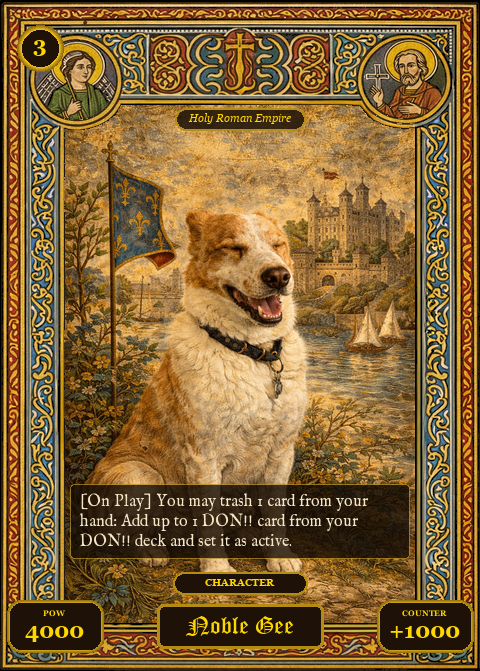
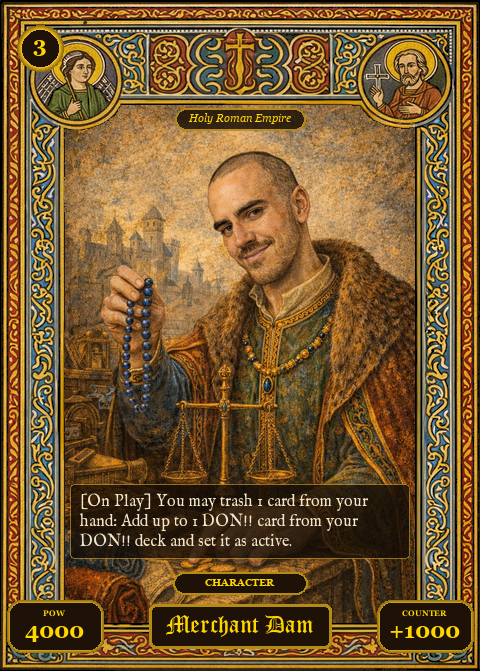
Swap OP01-100/ST04-008: rename + new artwork

diff --git a/deck-editor.html b/deck-editor.html
@@ -496,7 +496,7 @@
       { id:'OP01-090', name:'Schola Montis Belli', type:'STAGE', color:'Blue', attribute:"", affiliation:'Duchess of Brittany', power:0, cost:1, counter:0, imgExt:'png', ability:'[Activate: Main] Look at 5 cards from the top of your deck; reveal up to 1 {Duchess of Brittany} type card other than [Schola Montis Belli] and add it to your hand. Then, place the rest at the bottom of your deck in any order.' },
       { id:'OP01-094', name:'Jack, Master of Gee', type:'CHARACTER', color:'Purple', attribute:'Strike', affiliation:'Holy Roman Empire', power:12000, cost:10, counter:0, imgExt:'png', ability:'[On Play] DON!! -6: If your Leader has the {Holy Roman Empire} type, K.O. all Characters other than this Character.' },
       { id:'OP01-096', name:'Commander Sam', type:'CHARACTER', color:'Purple', attribute:'Strike', affiliation:'Holy Roman Empire', power:7000, cost:7, counter:0, imgExt:'png', ability:"[On Play] DON!! -2: K.O. up to 1 of your opponent's Characters with a cost of 3 or less and up to 1 of your opponent's Characters with a cost of 2 or less." },
-      { id:'OP01-100', name:'Merchant Dam', type:'CHARACTER', color:'Purple', attribute:'Wisdom', affiliation:'Holy Roman Empire', power:3000, cost:2, counter:1000, imgExt:'png', ability:'[Blocker] [On K.O.] Add 1 DON!! card from your DON!! deck and rest it.' },
+      { id:'OP01-100', name:'Noble Gee', type:'CHARACTER', color:'Purple', attribute:'Wisdom', affiliation:'Holy Roman Empire', power:3000, cost:2, counter:1000, imgExt:'png', ability:'[Blocker] [On K.O.] Add 1 DON!! card from your DON!! deck and rest it.' },
       { id:'OP01-101', name:'Shawn the Whimsical', type:'CHARACTER', color:'Purple', attribute:'Strike', affiliation:'Holy Roman Empire', power:4000, cost:3, counter:2000, imgExt:'png', ability:'[DON!! x1] [When Attacking] You may trash 1 card from your hand: Add up to 1 DON!! card from your DON!! deck and rest it.' },
       { id:'OP01-117', name:'Guard Off Duty', type:'EVENT', color:'Purple', attribute:"", affiliation:'Holy Roman Empire', power:0, cost:2, counter:0, imgExt:'png', hasAlt:true, ability:"[Main] DON!! -1: Rest up to 1 of your opponent's Characters with a cost of 6 or less." },
       { id:'OP01-119', name:'Plight of the Crusader', type:'EVENT', color:'Purple', attribute:"", affiliation:'Holy Roman Empire', power:0, cost:2, counter:0, imgExt:'png', ability:'[Counter] Up to 1 of your Leader or Character cards gains +4000 power during this battle. Then, if you have 2 or less Life cards, add up to 1 DON!! card from your DON!! deck and rest it. [Trigger] Add up to 1 DON!! card from your DON!! deck and set it as active.' },
@@ -619,7 +619,7 @@
       { id:'ST04-005', name:'Sam the Tall', type:'CHARACTER', color:'Purple', attribute:'Wisdom', affiliation:'Holy Roman Empire', power:6000, cost:5, counter:1000, imgExt:'png', ability:'[Blocker] [On Play] DON!! -1: Draw 2 cards and trash 1 card from your hand.' },
       { id:'ST04-006', name:'Sasaki', type:'CHARACTER', color:'Purple', attribute:'Strike', power:4000, cost:4, counter:2000, imgExt:'png', ability:"" },
       { id:'ST04-007', name:'Sheepshead', type:'CHARACTER', color:'Purple', attribute:'Strike', power:4000, cost:3, counter:1000, imgExt:'png', ability:"" },
-      { id:'ST04-008', name:'Noble Gee', type:'CHARACTER', color:'Purple', attribute:'Strike', affiliation:'Holy Roman Empire', power:4000, cost:3, counter:1000, imgExt:'png', ability:'[On Play] You may trash 1 card from your hand: Add up to 1 DON!! card from your DON!! deck and set it as active.' },
+      { id:'ST04-008', name:'Merchant Dam', type:'CHARACTER', color:'Purple', attribute:'Strike', affiliation:'Holy Roman Empire', power:4000, cost:3, counter:1000, imgExt:'png', ability:'[On Play] You may trash 1 card from your hand: Add up to 1 DON!! card from your DON!! deck and set it as active.' },
       { id:'ST04-009', name:'Ginrummy', type:'CHARACTER', color:'Purple', attribute:'Wisdom', power:2000, cost:1, counter:1000, imgExt:'png', ability:"" },
       { id:'ST04-010', name:'Monk Matt', type:'CHARACTER', color:'Purple', attribute:'Strike', affiliation:'Holy Roman Empire', power:3000, cost:3, counter:0, imgExt:'png', ability:"[On Play] DON!! -1: K.O. up to 1 of your opponent's Characters with a cost of 3 or less. [Trigger] Play this card." },
       { id:'ST04-011', name:'Black Maria', type:'CHARACTER', color:'Purple', attribute:'Wisdom', power:1000, cost:1, counter:2000, imgExt:'png', ability:'[Blocker]' },

diff --git a/server.js b/server.js
@@ -402,7 +402,7 @@ const CARD_DB = [
     power:5000, life:5, cost:0, counter:0, image:IMG('ST04','ST04-001','png'), useNewPipeline:true,
     ability:"[Activate: Main] [Once Per Turn] DON!! -7: Trash up to 1 of your opponent's Life cards." },
 
-  { id:'OP01-100', name:'Merchant Dam', type:'CHARACTER', color:'Purple', attribute:'Wisdom', affiliation:'Holy Roman Empire',
+  { id:'OP01-100', name:'Noble Gee', type:'CHARACTER', color:'Purple', attribute:'Wisdom', affiliation:'Holy Roman Empire',
     power:3000, cost:2, counter:1000, image:IMG('OP01','OP01-100','png'), useNewPipeline:true,
     ability:"[Blocker] [On K.O.] Add 1 DON!! card from your DON!! deck and rest it." },
 
@@ -414,7 +414,7 @@ const CARD_DB = [
     power:4000, cost:3, counter:2000, image:IMG('OP01','OP01-101','png'), useNewPipeline:true,
     ability:"[DON!! x1] [When Attacking] You may trash 1 card from your hand: Add up to 1 DON!! card from your DON!! deck and rest it." },
 
-  { id:'ST04-008', name:'Noble Gee', type:'CHARACTER', color:'Purple', attribute:'Strike', affiliation:'Holy Roman Empire',
+  { id:'ST04-008', name:'Merchant Dam', type:'CHARACTER', color:'Purple', attribute:'Strike', affiliation:'Holy Roman Empire',
     power:4000, cost:3, counter:1000, image:IMG('ST04','ST04-008','png'), useNewPipeline:true,
     ability:"[On Play] You may trash 1 card from your hand: Add up to 1 DON!! card from your DON!! deck and set it as active." },
 
